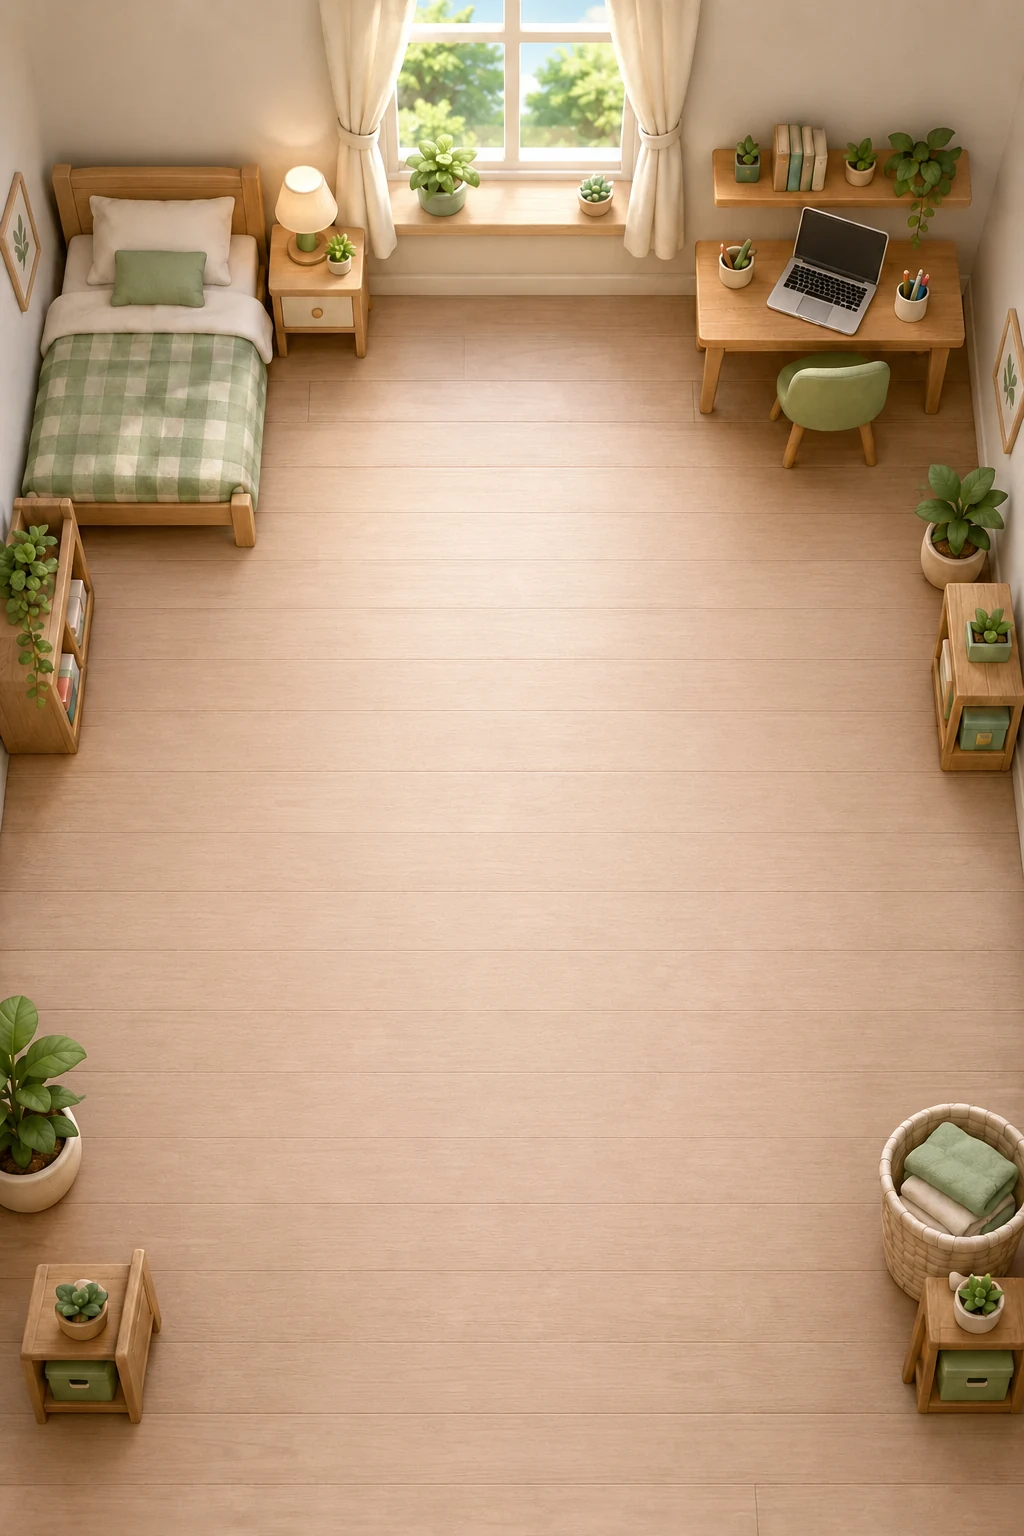
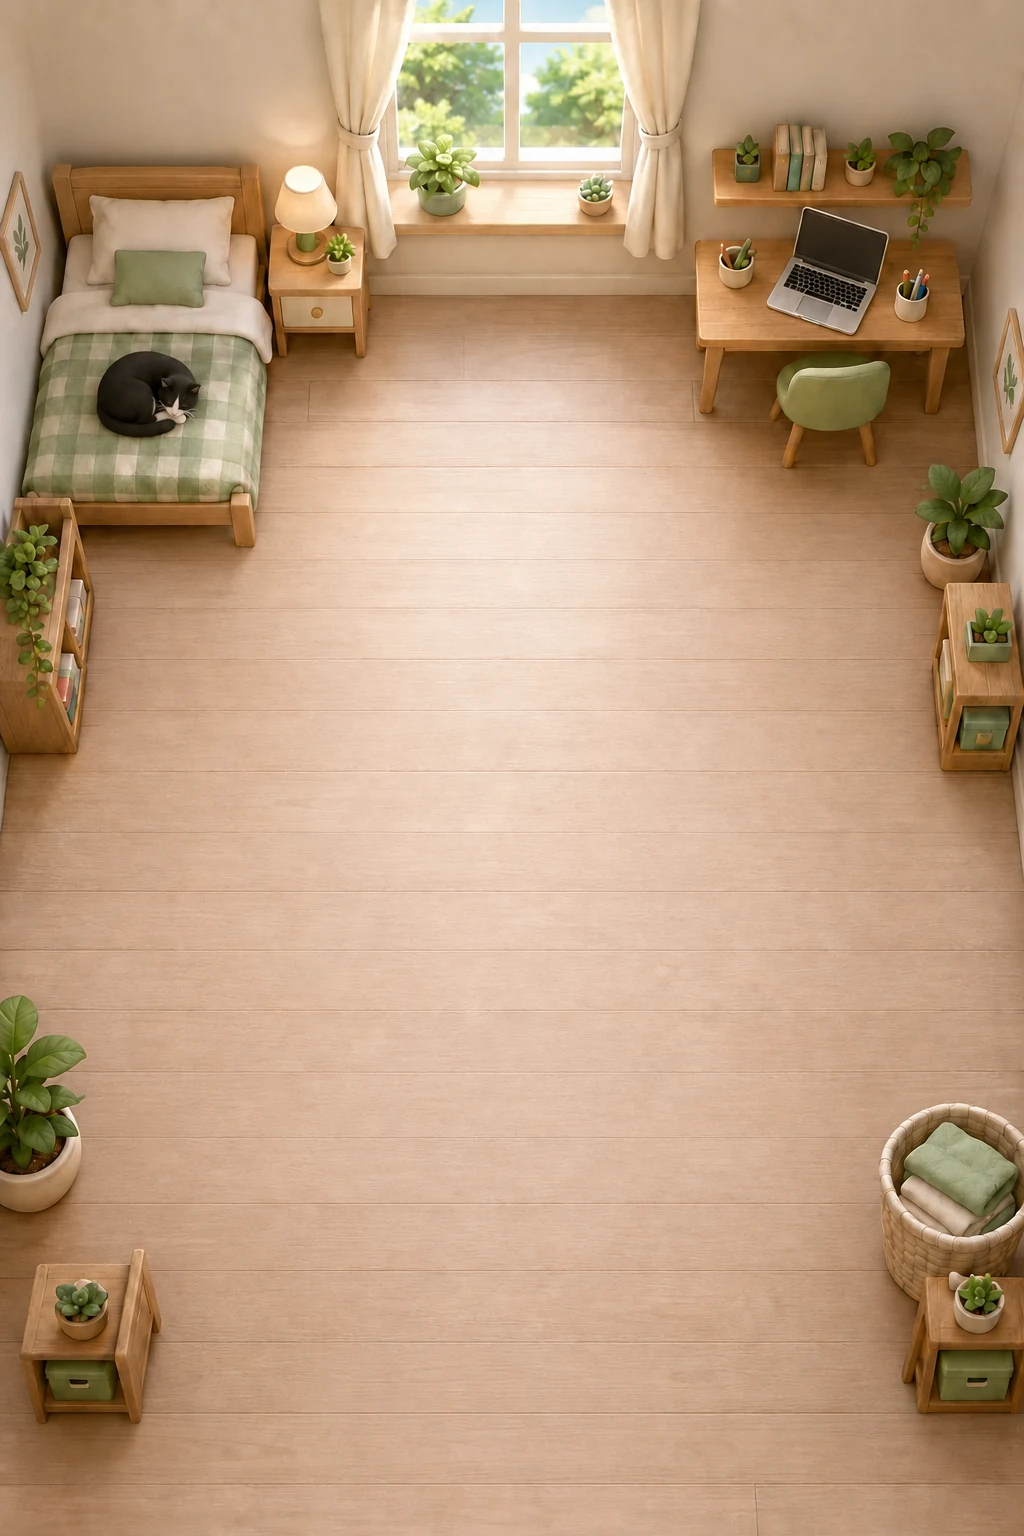
타일 6종 + 장애물 6종 + 배경 v2(고양이) 적용
- 타일: GPT 시트(마젠타 배경) 자동 분리, 256x256 6단계
  코드 절차 생성본은 폐기(AI 타일이 클레이 질감 우위)
- 장애물 6종: books/stool/basket_sq/boxes/plant/basket_rd
- 마젠타 키잉이 완벽 동작 — 시트 재단 문제의 해법 검증됨
- 배경 v2: 침대 위 고양이 추가(기획의 '동거 친구' 설정과 연결), 144KB
- 전체 에셋 합성 검증 완료(배경+타일+장애물+캐릭터+원근보드)

Claude-Session: https://claude.ai/code/session_0111YUZQqwRvMGsnxcS6qdpi

Changed region(s): [[0.0625, 0.2188, 0.2188, 0.3125], [0.4062, 0.0938, 0.4375, 0.125], [0.3125, 0.1562, 0.3438, 0.1875]]

diff --git a/CONCEPT.md b/CONCEPT.md
@@ -131,8 +131,8 @@
 | 항목 | 방식 |
 |---|---|
 | 배경 6장 | **GPT 생성** (자취방 ✅ / 나머지 5장 대기) |
-| 타일 6종 | **코드 절차 생성** (`tools/gen_tiles.py`) ✅ |
-| 장애물 3종 | 생성 필요 |
+| 타일 6종 | **GPT 생성 → 분리 완료** ✅ |
+| 장애물 6종 | **GPT 생성 → 분리 완료** ✅ |
 | 캐릭터 2등신 치비 4방향×3프레임 | **GPT 생성 → 누끼·정리 완료** ✅ |
 | HUD · 버튼 · 가이드 모달 · 이펙트 | **코드** |
 
@@ -255,27 +255,24 @@
 
 ---
 
-## 6.8 타일 에셋 — **코드 생성** ✅
+## 6.8 타일 · 장애물 에셋 ✅
 
-`assets/room/tiles/tile_0~5.png` (256×256, 합계 ~180KB) — `tools/gen_tiles.py`로 생성
+### 타일 `assets/room/tiles/tile_0~5.png` (256×256)
+GPT 생성 시트(마젠타 배경, 2행×3열) → 자동 분리. 6단계가 균등하게 진해짐.
+> 코드 절차 생성본은 폐기 — AI 타일이 클레이 질감에서 우위.
 
-AI 생성 대신 **코드로 절차적 생성**을 채택.
+### 장애물 `assets/room/obstacles/` (6종)
+`obs_books` · `obs_stool` · `obs_basket_sq` · `obs_boxes` · `obs_plant` · `obs_basket_rd`
+2장의 시트에서 각 3종씩 분리. 배치 스케일 = 셀 높이 × 0.85
 
-| 이유 | 설명 |
-|---|---|
-| 일관성 | 배경 팔레트에서 직접 색을 잡아 **톤이 어긋날 수 없음** |
-| 조절성 | 6단계 대비·색·얼룩 양을 숫자로 즉시 조정 |
-| 비용 | 0 (크레딧·생성 대기 없음) |
-| 용량 | 개당 ~30KB |
+### 마젠타 키잉 성공
+`#FF00FF` 배경 지시가 완벽히 지켜져 **테두리 플러드필로 100% 깨끗하게 분리**.
+(과거 시트 재단 실패의 해법이 검증됨)
 
-구성: 크림 베이스(247,239,223) + 쿠션 하이라이트/하단 그림자 + 둥근 모서리,
-그 위에 단계별 갈색 얼룩(블롭 + 입자 + 고단계 전체 워시).
-
-- 색 진행: `(176,146,104)` → `(86,58,34)` 로 단계마다 확실히 진해짐
-- 타일은 **평면 정사각형**으로 생성, 원근은 렌더 시 호모그래피로 적용
-
-> 목업의 클레이 질감만큼 풍부하진 않음. 추후 AI 타일 확보 시 **파일 교체만으로 대체 가능**
-> (경로·규격 동일).
+### 배경 v2 — 고양이 추가
+`assets/room/bg_studio.webp` (144KB). 침대 위 턱시도 고양이 추가.
+초기 기획의 *"고양이 = 주인공의 유일한 동거 친구"* 설정과 연결됨.
+픽셀 diff 결과 변경 영역은 침대(64~192, 320~448)뿐, 나머지는 동일.
 
 ---
 
